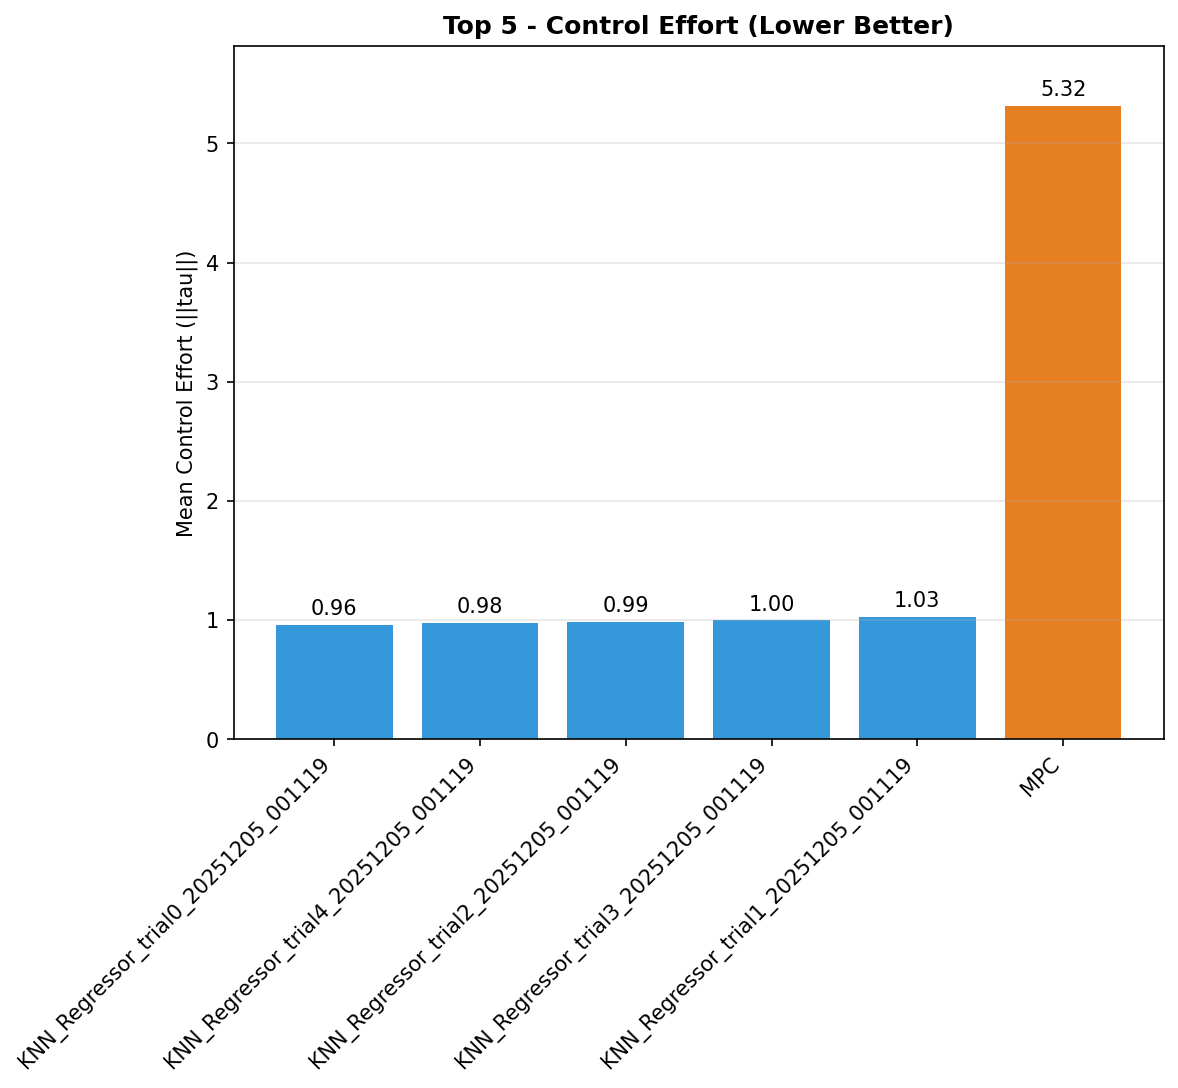
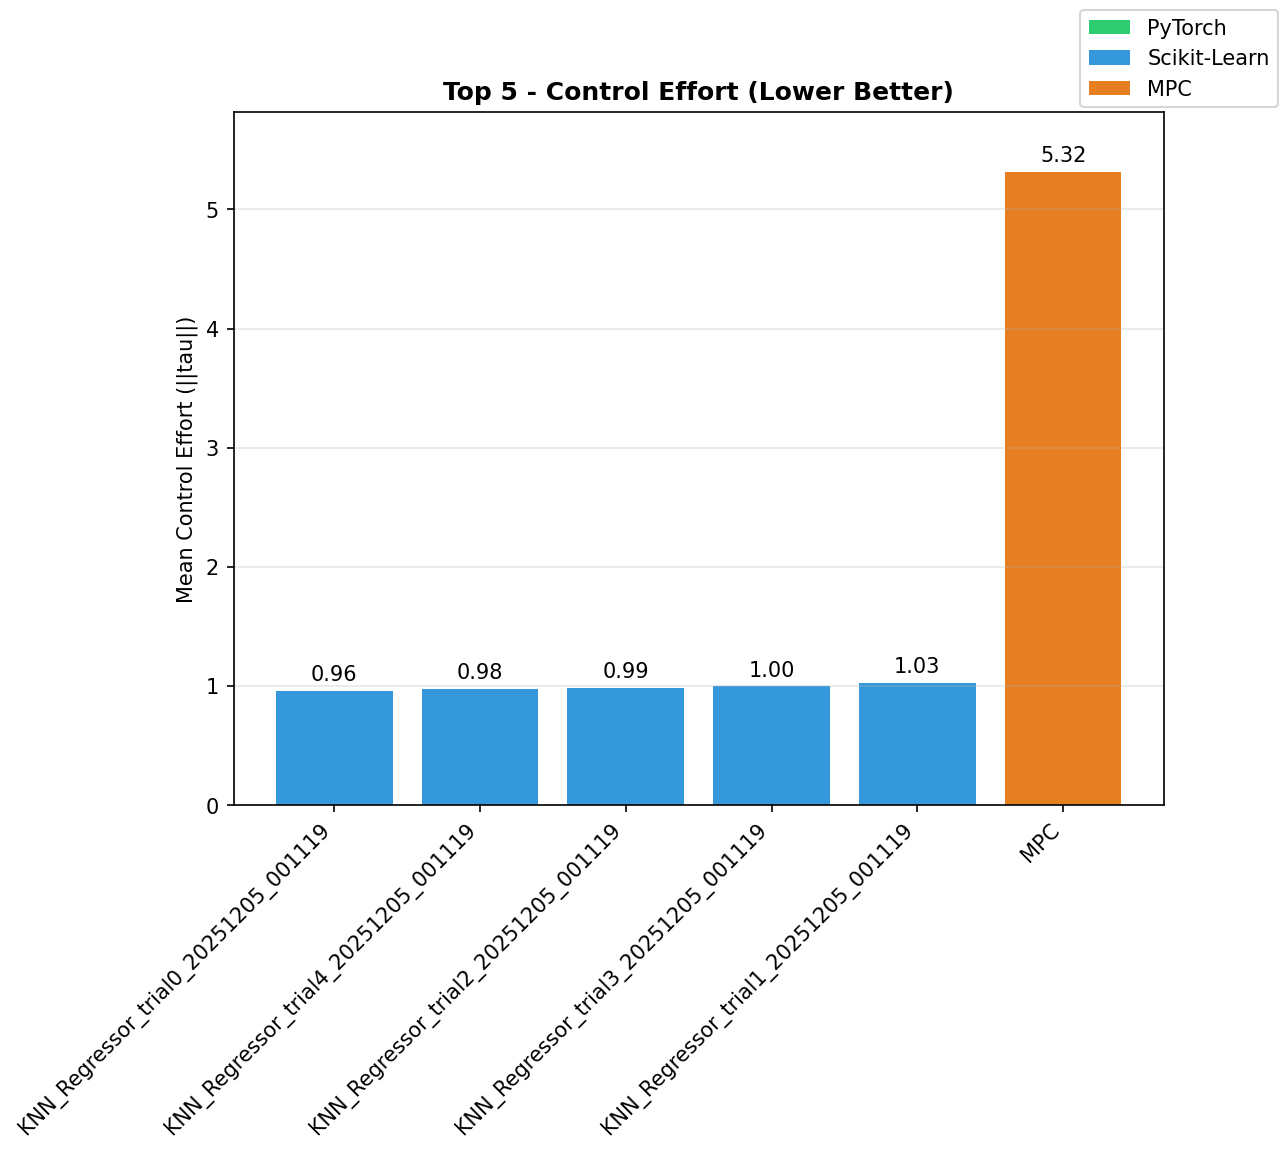
Added legend to plots, moved loss testing models

diff --git a/scripts/analyze_closed_loop.py b/scripts/analyze_closed_loop.py
@@ -9,6 +9,7 @@ import glob
 import pandas as pd
 import matplotlib.pyplot as plt
 import numpy as np
+from matplotlib.patches import Patch
 
 # Load all JSON files from results/closed_loop/
 results_dir = 'results/closed_loop'
@@ -56,6 +57,12 @@ def color_map(types):
     }
     return [palette.get(t, '#7f8c8d') for t in types]
 
+legend_elements = [
+    Patch(facecolor='#2ecc71', label='PyTorch'),
+    Patch(facecolor='#3498db', label='Scikit-Learn'),
+    Patch(facecolor='#e67e22', label='MPC')
+]
+
 def select_top_with_mpc(df_metric: pd.DataFrame, metric: str, n: int = 5, ascending: bool = False):
     sorted_df = df_metric.sort_values(metric, ascending=ascending)
     if not ascending:
@@ -79,6 +86,7 @@ ax.set_ylim([0, 100])
 for i, (idx, row) in enumerate(top_success.iterrows()):
     ax.text(i, row['Success Rate (%)'] + 2, f"{row['Success Rate (%)']:.1f}%", ha='center', va='bottom')
 ax.grid(axis='y', alpha=0.3)
+fig.legend(handles=legend_elements, loc='upper right')
 fig.savefig('results/closed_loop_success.png', dpi=150, bbox_inches='tight')
 print("Plot saved to results/closed_loop_success.png")
 
@@ -94,6 +102,7 @@ ax.set_ylim([0, top_error['Final Error (m)'].max() + 0.1])
 for i, (idx, row) in enumerate(top_error.iterrows()):
     ax.text(i, row['Final Error (m)'] + 0.02, f"{row['Final Error (m)']:.4f}m", ha='center', va='bottom')
 ax.grid(axis='y', alpha=0.3)
+fig.legend(handles=legend_elements, loc='upper right')
 fig.savefig('results/closed_loop_final_error.png', dpi=150, bbox_inches='tight')
 print("Plot saved to results/closed_loop_final_error.png")
 
@@ -109,6 +118,7 @@ ax.set_title('Top 5 - Computational Efficiency (Lower Better)', fontweight='bold
 for i, (idx, row) in enumerate(top_time.iterrows()):
     ax.text(i, row['Solve Time (ms)'] + 0.05, f"{row['Solve Time (ms)']:.3f}ms", ha='center', va='bottom')
 ax.grid(axis='y', alpha=0.3)
+fig.legend(handles=legend_elements, loc='upper right')
 fig.savefig('results/closed_loop_solvetime.png', dpi=150, bbox_inches='tight')
 print("Plot saved to results/closed_loop_solvetime.png")
 
@@ -124,6 +134,7 @@ ax.set_title('Top 5 - CPU Efficiency (Lower Better)', fontweight='bold')
 for i, (idx, row) in enumerate(top_cpu.iterrows()):
     ax.text(i, row['CPU Percent'] + 0.1, f"{row['CPU Percent']:.2f}%", ha='center', va='bottom')
 ax.grid(axis='y', alpha=0.3)
+fig.legend(handles=legend_elements, loc='upper right')
 fig.savefig('results/closed_loop_cpu.png', dpi=150, bbox_inches='tight')
 print("Plot saved to results/closed_loop_cpu.png")
 
@@ -140,6 +151,7 @@ if not top_steps_success.empty:
     for i, (idx, row) in enumerate(top_steps_success.iterrows()):
         ax.text(i, row['Steps to Success'] + 0.5, f"{row['Steps to Success']:.1f}", ha='center', va='bottom')
     ax.grid(axis='y', alpha=0.3)
+    fig.legend(handles=legend_elements, loc='upper right')
     fig.savefig('results/closed_loop_steps_success.png', dpi=150, bbox_inches='tight')
     print("Plot saved to results/closed_loop_steps_success.png")
 
@@ -156,6 +168,7 @@ if not top_steps_all.empty:
     for i, (idx, row) in enumerate(top_steps_all.iterrows()):
         ax.text(i, row['Steps (All Episodes)'] + 0.5, f"{row['Steps (All Episodes)']:.1f}", ha='center', va='bottom')
     ax.grid(axis='y', alpha=0.3)
+    fig.legend(handles=legend_elements, loc='upper right')
     fig.savefig('results/closed_loop_steps_all.png', dpi=150, bbox_inches='tight')
     print("Plot saved to results/closed_loop_steps_all.png")
 
@@ -172,6 +185,7 @@ if not top_track.empty:
     for i, (idx, row) in enumerate(top_track.iterrows()):
         ax.text(i, row['Tracking Error (m)'] + 0.01, f"{row['Tracking Error (m)']:.3f}m", ha='center', va='bottom')
     ax.grid(axis='y', alpha=0.3)
+    fig.legend(handles=legend_elements, loc='upper right')
     fig.savefig('results/closed_loop_tracking_error.png', dpi=150, bbox_inches='tight')
     print("Plot saved to results/closed_loop_tracking_error.png")
 
@@ -188,6 +202,7 @@ if not top_effort.empty:
     for i, (idx, row) in enumerate(top_effort.iterrows()):
         ax.text(i, row['Control Effort'] + 0.05, f"{row['Control Effort']:.2f}", ha='center', va='bottom')
     ax.grid(axis='y', alpha=0.3)
+    fig.legend(handles=legend_elements, loc='upper right')
     fig.savefig('results/closed_loop_control_effort.png', dpi=150, bbox_inches='tight')
     print("Plot saved to results/closed_loop_control_effort.png")
 
